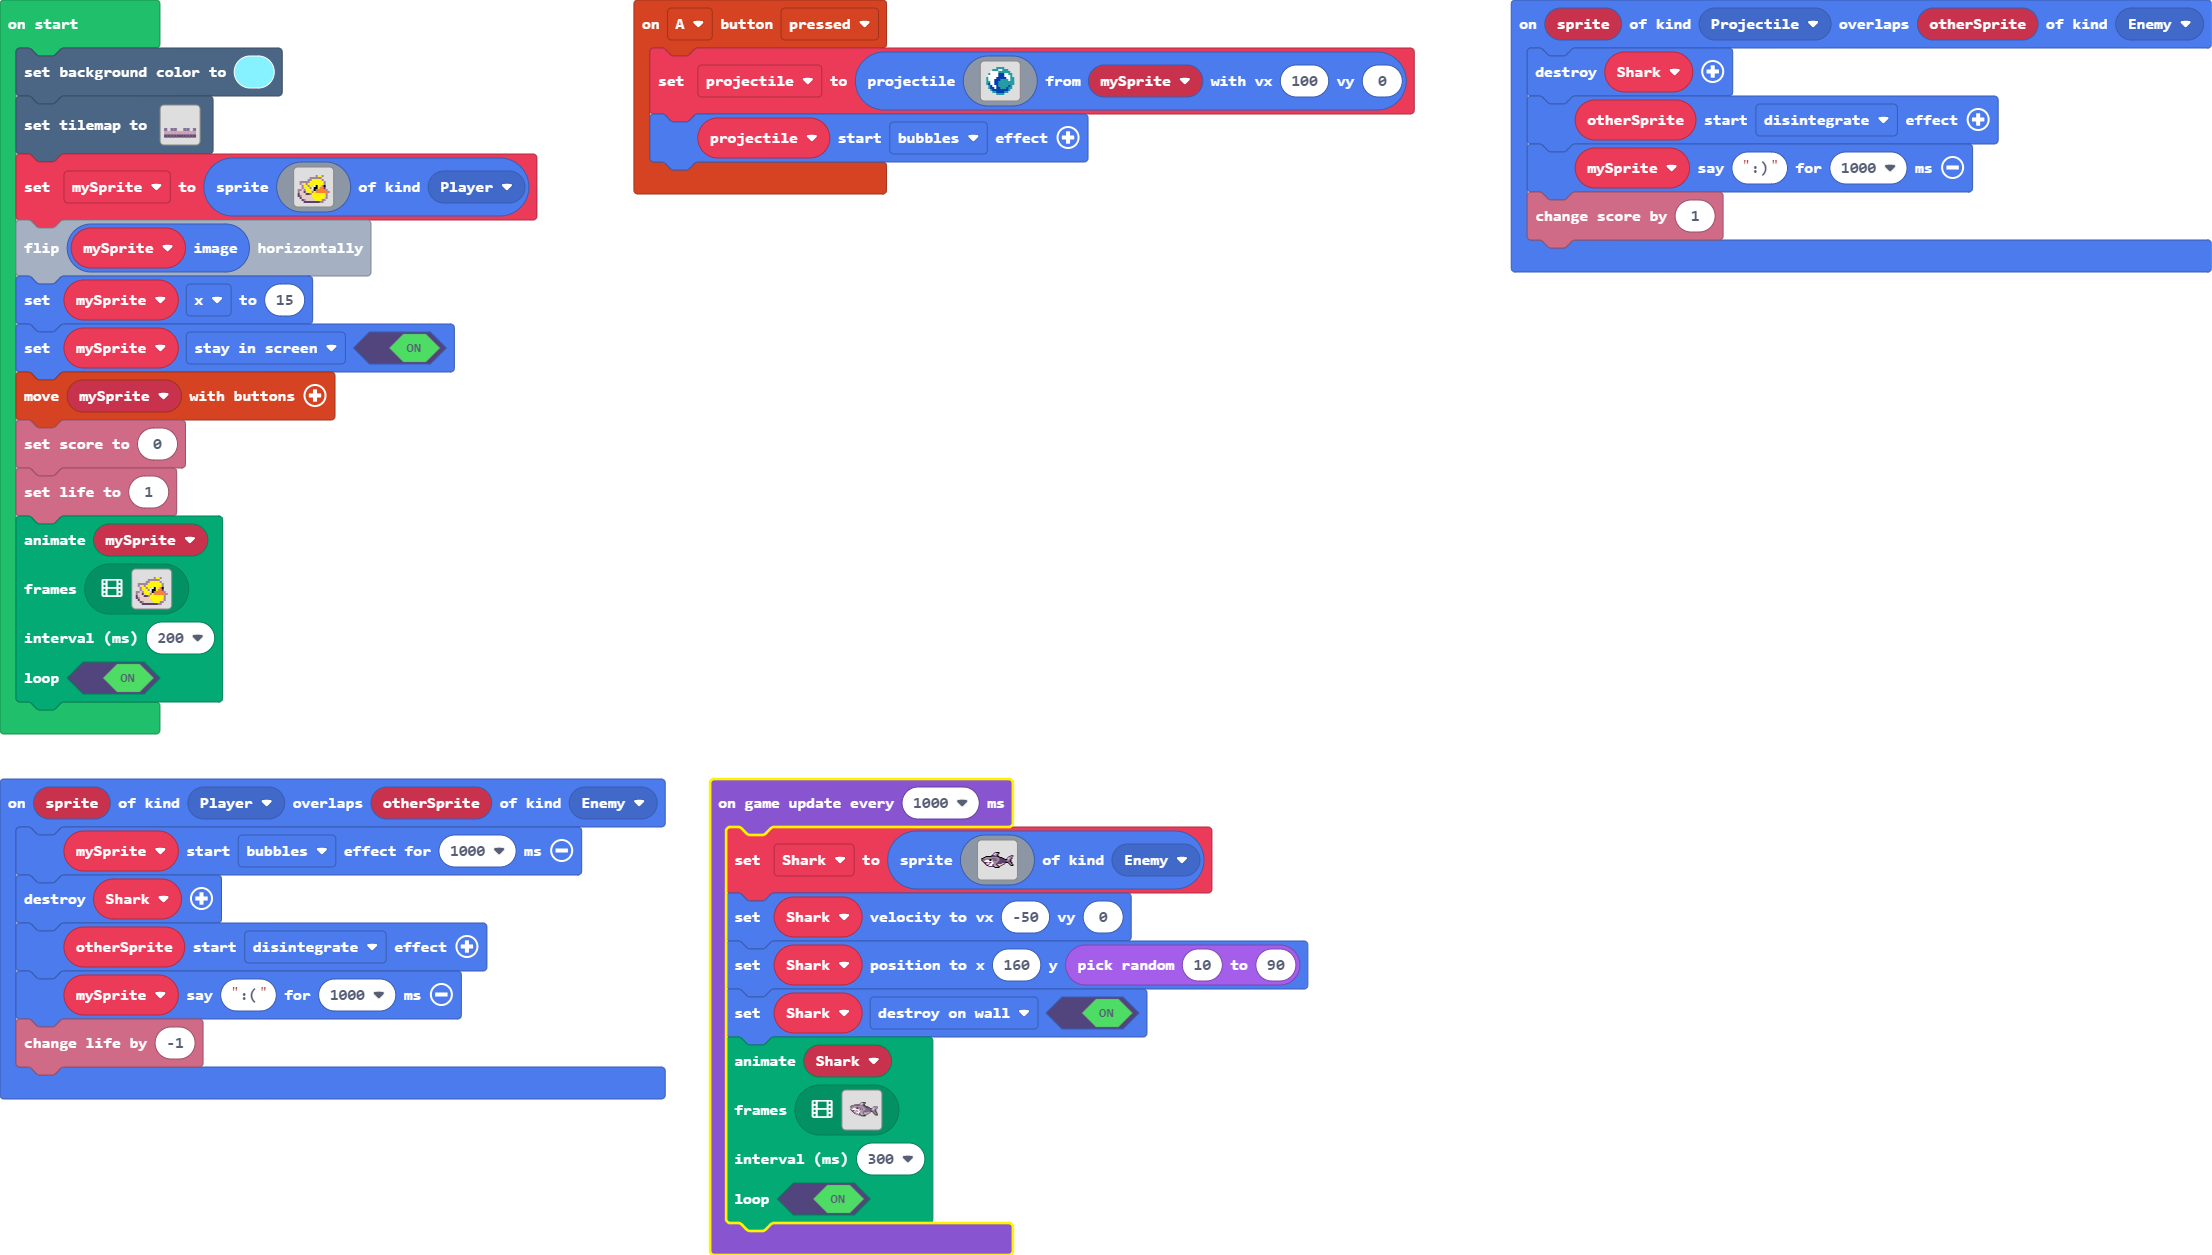
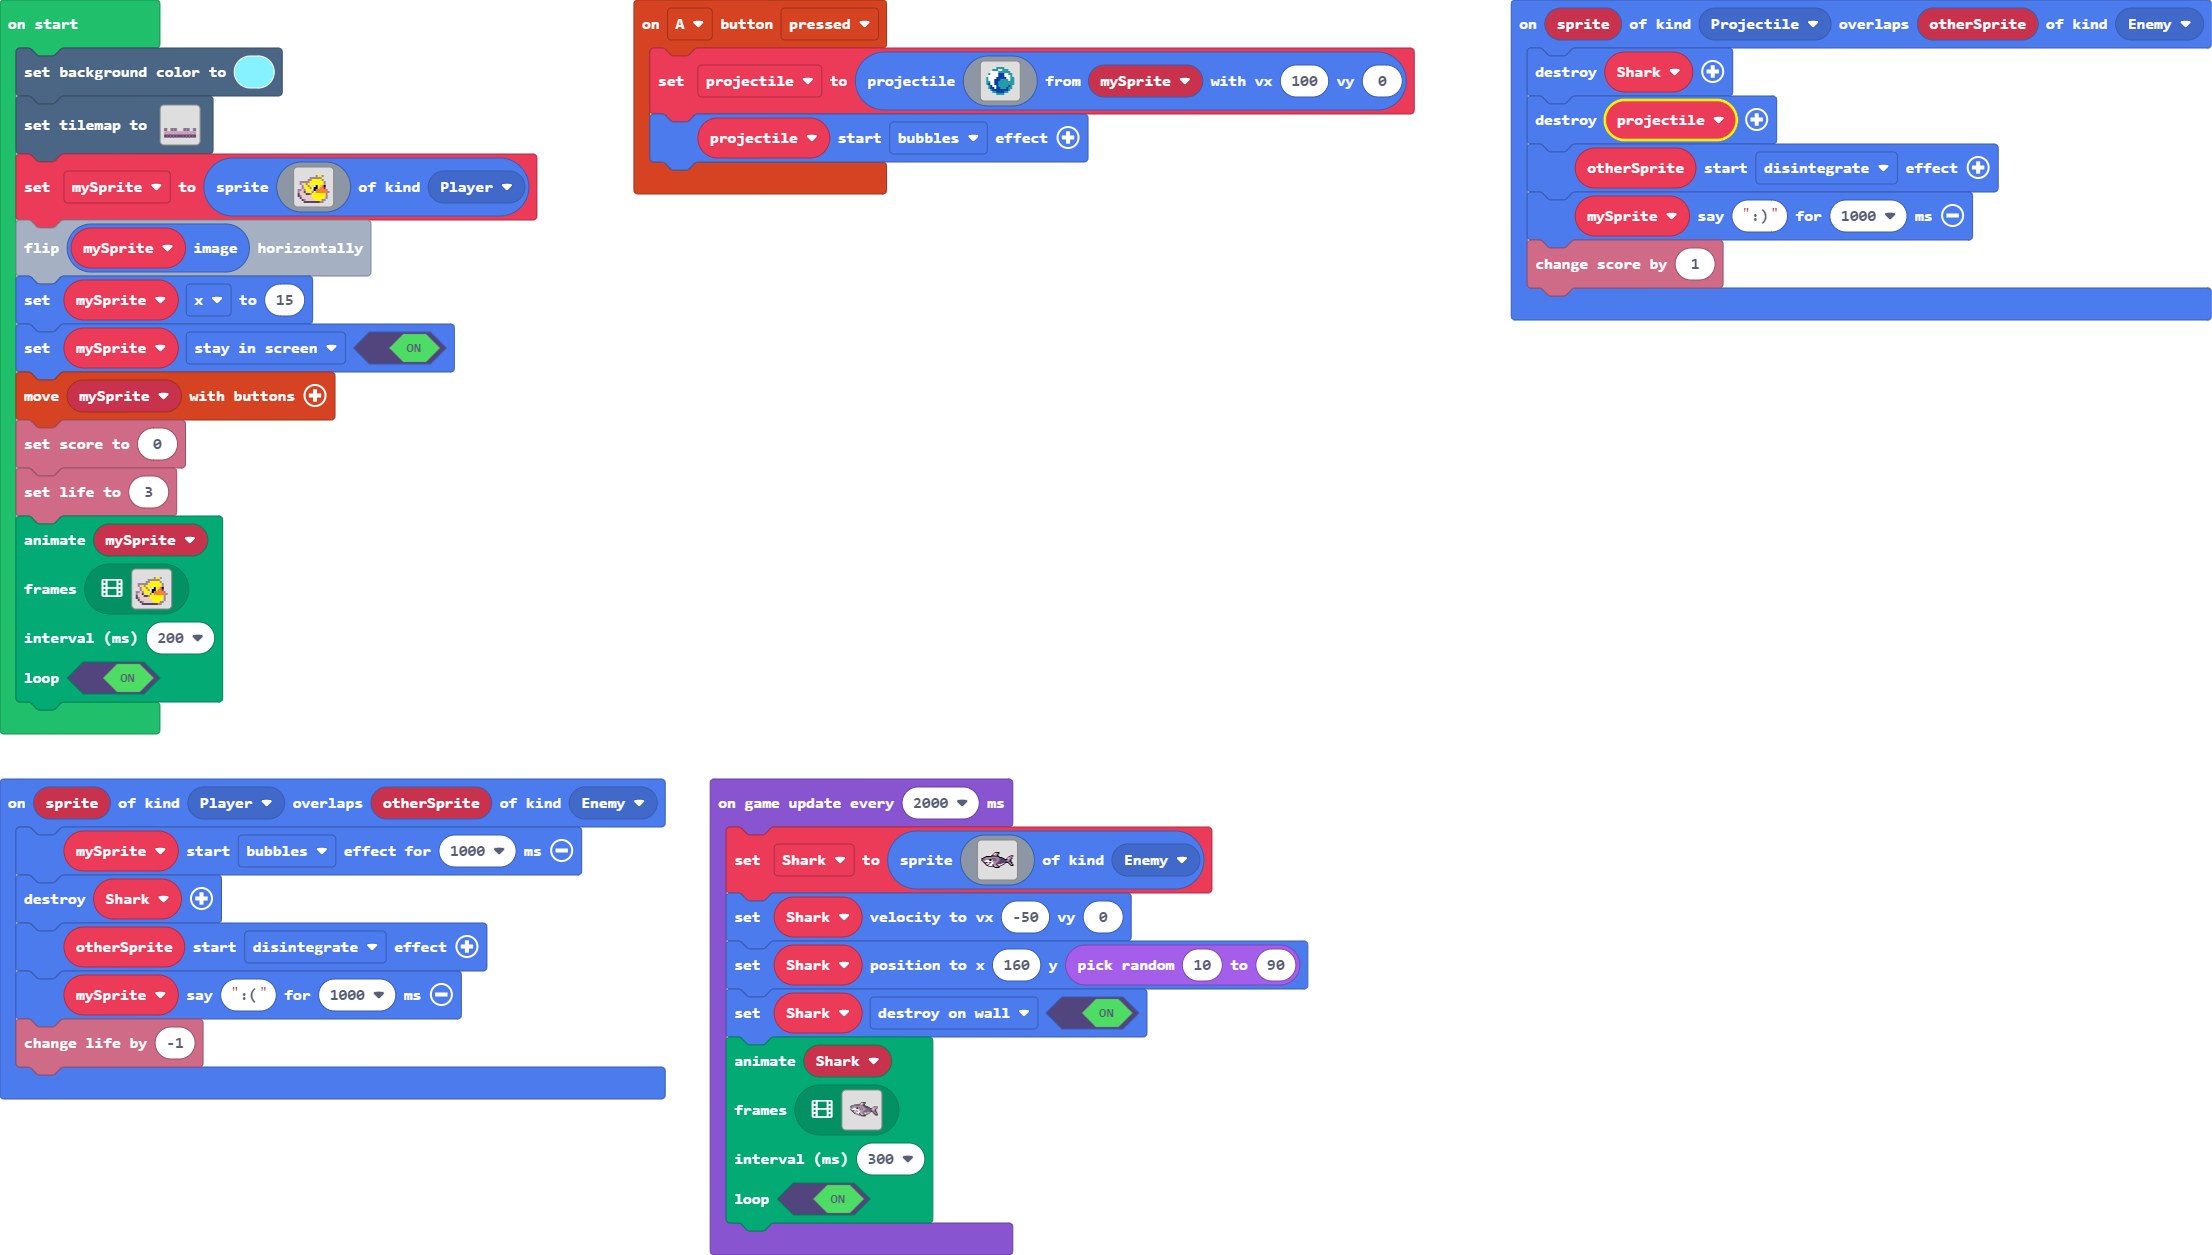
Update main.blocks, main.ts

Changed region(s): [[0.6551, 0.0622, 1.0, 0.2797], [0.3119, 0.6526, 0.4679, 1.0]]

diff --git a/main.ts b/main.ts
@@ -30,6 +30,7 @@ controller.A.onEvent(ControllerButtonEvent.Pressed, function () {
 })
 sprites.onOverlap(SpriteKind.Projectile, SpriteKind.Enemy, function (sprite, otherSprite) {
     Shark.destroy()
+    projectile.destroy()
     otherSprite.startEffect(effects.disintegrate)
     mySprite.say(":)", 1000)
     info.changeScoreBy(1)
@@ -78,7 +79,7 @@ mySprite.x = 15
 mySprite.setFlag(SpriteFlag.StayInScreen, true)
 controller.moveSprite(mySprite)
 info.setScore(0)
-info.setLife(1)
+info.setLife(3)
 animation.runImageAnimation(
 mySprite,
 [img`
@@ -204,7 +205,7 @@ mySprite,
 200,
 true
 )
-game.onUpdateInterval(1000, function () {
+game.onUpdateInterval(2000, function () {
     Shark = sprites.create(img`
         .............ccfff..............
         ............cddbbf..............
